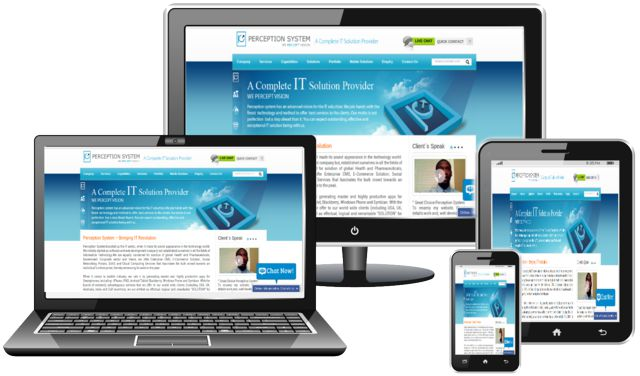
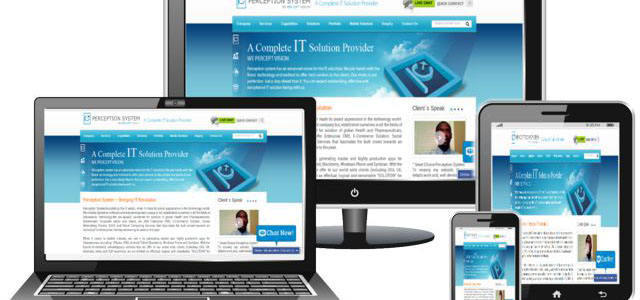
Update 2016-12-10T18:35:49.643Z

diff --git a/css/style.min.css b/css/style.min.css
@@ -1,1 +1,1 @@
-html{font-family:sans-serif;-ms-text-size-adjust:100%;-webkit-text-size-adjust:100%}body{margin:0;font:400 14px/1.4 'Roboto',sans-serif;background-color:#f5f5f5;color:#212121}article,aside,details,figcaption,figure,footer,header,hgroup,main,menu,nav,section,summary{display:block}audio,canvas,progress,video{display:inline-block;vertical-align:baseline}audio:not([controls]){display:none;height:0}[hidden],template{display:none}a{background-color:transparent;transition:all .2s linear}a:active,a:hover{outline:0}abbr[title]{border-bottom:1px dotted}b{font-weight:700}dfn{font-style:italic}h1{font-size:2em;margin:.67em 0}mark{background:#ff0;color:#000}small{font-size:80%}sub,sup{font-size:75%;line-height:0;position:relative;vertical-align:baseline}sup{top:-.5em}sub{bottom:-.25em}img{border:0;max-width:100%;height:auto}svg:not(:root){overflow:hidden}figure{margin:1em 40px}hr{box-sizing:content-box;height:0}pre{overflow:auto}code,kbd,pre,samp{font-family:monospace,monospace;font-size:1em}button,input,optgroup,select,textarea{color:inherit;font:inherit;margin:0}button{overflow:visible}button,select{text-transform:none}button,html input[type=button],input[type=reset],input[type=submit]{-webkit-appearance:button;cursor:pointer}button[disabled],html input[disabled]{cursor:default}button::-moz-focus-inner,input::-moz-focus-inner{border:0;padding:0}input{line-height:normal}input[type=checkbox],input[type=radio]{box-sizing:border-box;padding:0}input[type=number]::-webkit-inner-spin-button,input[type=number]::-webkit-outer-spin-button{height:auto}input[type=search]{-webkit-appearance:textfield;box-sizing:content-box}input[type=search]::-webkit-search-cancel-button,input[type=search]::-webkit-search-decoration{-webkit-appearance:none}fieldset{border:1px solid silver;margin:0 2px;padding:.35em .625em .75em}legend{border:0}textarea{overflow:auto}optgroup{font-weight:700}table{border-collapse:collapse;border-spacing:0}legend,td,th{padding:0}*,:after,:before{box-sizing:border-box}h1,h2,h3,h4{font-weight:400;text-align:center}button,input,select,textarea{outline:none;border:none}button:focus,input:focus,select:focus,textarea:focus{outline:none}ol,ul{padding:0;margin:0;list-style-type:none}strong{font-weight:400}a:hover{color:#212121}.page-header{margin-bottom:20px}.page-header__top{background-color:#2b98d4;margin-bottom:40px}.page-header__top-inner{width:auto;padding:25px 15px}@media (min-width:768px){.page-header__top-inner{width:96.09375%;max-width:994px;margin:0 auto}}@media (min-width:1024px){.page-header__top-inner{width:97.5%;max-width:1170px}}@media (min-width:768px){.page-header__top-inner{padding:0 15px}}@media (min-width:1024px){.page-header__top{margin-bottom:0}}.person{margin-bottom:30px}.person__photo{width:220px;height:220px;margin:0 auto;padding:10px;background-color:#2b98d4}.person__photo,.person__photo img{border-radius:50%}.person__name{margin-top:25px;margin-bottom:0;font-weight:600;font-size:36px}.person__prof{margin:10px 0;font-weight:300;font-size:24px;text-align:center}@media (min-width:1024px){.person{position:relative;padding-top:100px}.person__photo{position:absolute;top:-120px;left:50%;transform:translateX(-50%)}}.menu__list{display:flex;flex-wrap:wrap;justify-content:center}.menu__item{margin-right:10px}.menu__link{position:relative;display:block;padding:0 10px;color:#000;text-decoration:none;text-transform:uppercase;font-weight:500;font-size:24px;background-color:#cec6c6;border-radius:2px}.menu__link--active{border-bottom:2px solid #212121}.menu__link--active:hover{background-color:#fff;border-bottom:2px solid #2b98d4}.contacts svg,.menu__link:hover{background-color:#fff}@media (min-width:768px){.menu__list{min-height:100px;-ms-grid-row-align:center;align-items:center}}@media (min-width:1024px){.menu__list{min-height:150px;justify-content:space-between}}.contacts{width:276px;margin:0 auto;display:flex;flex-direction:column}.contacts svg{width:40px;height:40px;padding:10px;border-bottom:1px solid #2b98d4;border-radius:10px}.contacts__item{line-height:40px}.contacts__item:first-child .contacts__link:hover{color:#212121}.contacts__link{display:inline-block;padding-left:5px;vertical-align:top;text-decoration:none;color:#212121}.contacts__link:hover{color:#2b98d4}@media (min-width:768px){.contacts{width:auto;padding:0 15px;flex-direction:row;flex-wrap:wrap;justify-content:center}}@media (min-width:768px) and (min-width:768px){.contacts{width:96.09375%;max-width:994px;margin:0 auto}}@media (min-width:768px) and (min-width:1024px){.contacts{width:97.5%;max-width:1170px}}@media (min-width:768px){.contacts__item{margin-right:20px}}.progects{display:flex;flex-wrap:wrap;width:auto;padding:0 15px}@media (min-width:768px){.progects{width:96.09375%;max-width:994px;margin:0 auto}}@media (min-width:1024px){.progects{width:97.5%;max-width:1170px}}.progects__item{position:relative;display:flex;flex-wrap:wrap;margin-bottom:40px;padding:40px;background-color:#fff;border-bottom:2px solid #e0e0e0;border-radius:2px}.progects__item:last-child{margin:0 auto 40px}.progects__num{position:absolute;top:10px;left:50%;transform:translateX(-50%);width:22px;height:22px;background-color:#0fa9f9;color:#fff;text-align:center;line-height:22px;vertical-align:middle;border-radius:50%}.progects__img{position:relative;display:block;text-align:center;transition:all .3s ease-in}.progects__img::before{content:'';position:absolute;top:0;right:0;bottom:0;left:0;background-color:transparent;transition:background-color .2s ease-in,border-radius .2s ease-in}.progects__img svg{position:absolute;width:100px;height:100px;left:50%;top:50%;margin-top:-50px;margin-left:-50px;transform:scale(0);transition:all .2s ease-in-out}.progects__img:hover::before{border-radius:5px;background-color:rgba(0,0,0,.5)}.progects__img:hover svg{display:block;transform:scale(1.2)}.progects__info p{margin-top:10px;margin-bottom:20px}.progects__title{font-size:24px;margin:30px 0 20px;font-weight:500;color:#222;text-align:left}.progect__link{display:inline-block;margin-top:auto;text-decoration:none;text-transform:uppercase;background-color:#2196f3;padding:0 16px;font-weight:500;color:#fff;border-radius:2px;font-size:15px;height:32px;line-height:32px;vertical-align:middle}.progect__link:hover{background-color:#1a77c9;color:#fff;box-shadow:1px 1px 5px 1px rgba(0,0,0,.2)}.progect__link:focus{box-shadow:0 4px 6px 2px rgba(0,0,0,.4)}@media (min-width:768px){.progects__item p{font-size:16px}}@media (min-width:1024px){.progects{justify-content:space-between}.progects__item{width:48.5565%}.progects__item p{font-size:17px}}.lift-up{display:none;position:fixed;bottom:20px;right:20px;height:40px;width:40px;font-size:24px;border-radius:50%;padding:6px 0 0;background-color:#2b98d4;border:none;opacity:.6}.lift-up::before{content:'';position:absolute;top:50%;left:50%;transform:translate(-50%,-50%) rotate(-135deg);width:10px;height:10px;border-bottom:2px solid #fff;border-right:2px solid #fff}.lift-up:hover{background-color:#378bb9}.lift-up:active{background-color:#376782}.lift-up:active::before{border-color:#212121}.tags{padding-left:15px;margin-bottom:10px}.tags__item{position:relative;display:inline-block;margin-right:30px;margin-bottom:10px;padding:0 10px 0 12px;color:#fff;background-color:#333;border-top-right-radius:4px;border-bottom-right-radius:4px;line-height:26px;text-decoration:none}.tags__item:after,.tags__item:before{content:"";position:absolute;float:left}.tags__item:before{border-color:transparent #333 transparent transparent;border-style:solid;border-width:13px 13px 13px 0;top:0;left:-13px;width:0;height:0}.tags__item:after{top:11px;left:0;width:4px;height:4px;border-radius:2px;background:#fff;box-shadow:-1px -1px 2px #004977}.about-me{width:auto;padding:0 15px;display:flex;flex-wrap:wrap}@media (min-width:768px){.about-me{width:96.09375%;max-width:994px;margin:0 auto}}@media (min-width:1024px){.about-me{width:97.5%;max-width:1170px}}.about-me__box{position:relative;width:100%;margin-bottom:40px;padding:40px;background-color:#fff;border-bottom:2px solid #e0e0e0;border-radius:2px;font-size:16px}.about-me__box h2{position:relative;font-size:26px;font-weight:600;text-align:left;margin:0 0 30px;padding-right:50px}.about-me__icon{position:absolute;top:40px;right:40px;width:40px;height:40px;background-color:#2b98d4;border-radius:50%}.about-me__icon svg{width:40px;height:40px;padding:10px}.about-me__skill{margin-bottom:20px}.about-me__name-skill{font-size:16px;margin:0 0 10px}.about-me__progress{border:1px solid #2b98d4;background-color:#fff;height:10px;border-radius:10px}.about-me__progress-bar,.about-me__skill-circle{position:relative;background-color:#2b98d4;height:100%}.about-me__skill-circle{position:absolute;right:-20px;top:50%;width:30px;height:30px;border:4px solid #fff;border-radius:50%;transform:translateY(-50%);z-index:1}.about-me__more-skils:first-child{margin-bottom:40px}.about-me__more-skils--use{display:inline-block}.about-me__more-skils--use .about-me__desc{display:inline-block;vertical-align:top;margin-right:20px}.about-me__desc{margin-bottom:15px}.about-me__desc p{margin:0;font-size:16px}.about-me__desc strong{font-size:18px;font-weight:700}@media (min-width:1024px){.about-me{justify-content:space-between}.about-me__box{width:48.5565%}}
+html{font-family:sans-serif;-ms-text-size-adjust:100%;-webkit-text-size-adjust:100%}body{margin:0;font:400 14px/1.4 'Roboto',sans-serif;background-color:#f5f5f5;color:#212121}article,aside,details,figcaption,figure,footer,header,hgroup,main,menu,nav,section,summary{display:block}audio,canvas,progress,video{display:inline-block;vertical-align:baseline}audio:not([controls]){display:none;height:0}[hidden],template{display:none}a{background-color:transparent;transition:all .2s linear}a:active,a:hover{outline:0}abbr[title]{border-bottom:1px dotted}b{font-weight:700}dfn{font-style:italic}h1{font-size:2em;margin:.67em 0}mark{background:#ff0;color:#000}small{font-size:80%}sub,sup{font-size:75%;line-height:0;position:relative;vertical-align:baseline}sup{top:-.5em}sub{bottom:-.25em}img{border:0;max-width:100%;height:auto}svg:not(:root){overflow:hidden}figure{margin:1em 40px}hr{box-sizing:content-box;height:0}pre{overflow:auto}code,kbd,pre,samp{font-family:monospace,monospace;font-size:1em}button,input,optgroup,select,textarea{color:inherit;font:inherit;margin:0}button{overflow:visible}button,select{text-transform:none}button,html input[type=button],input[type=reset],input[type=submit]{-webkit-appearance:button;cursor:pointer}button[disabled],html input[disabled]{cursor:default}button::-moz-focus-inner,input::-moz-focus-inner{border:0;padding:0}input{line-height:normal}input[type=checkbox],input[type=radio]{box-sizing:border-box;padding:0}input[type=number]::-webkit-inner-spin-button,input[type=number]::-webkit-outer-spin-button{height:auto}input[type=search]{-webkit-appearance:textfield;box-sizing:content-box}input[type=search]::-webkit-search-cancel-button,input[type=search]::-webkit-search-decoration{-webkit-appearance:none}fieldset{border:1px solid silver;margin:0 2px;padding:.35em .625em .75em}legend{border:0}textarea{overflow:auto}optgroup{font-weight:700}table{border-collapse:collapse;border-spacing:0}legend,td,th{padding:0}*,:after,:before{box-sizing:border-box}h1,h2,h3,h4{font-weight:400;text-align:center}button,input,select,textarea{outline:none;border:none}button:focus,input:focus,select:focus,textarea:focus{outline:none}ol,ul{padding:0;margin:0;list-style-type:none}strong{font-weight:400}a:hover{color:#212121}.page-header{margin-bottom:20px}.page-header__top{background-color:#2b98d4;margin-bottom:40px}.page-header__top-inner{width:auto;padding:25px 15px}@media (min-width:768px){.page-header__top-inner{width:96.09375%;max-width:994px;margin:0 auto}}@media (min-width:1024px){.page-header__top-inner{width:97.5%;max-width:1170px}}@media (min-width:768px){.page-header__top-inner{padding:0 15px}}@media (min-width:1024px){.page-header__top{margin-bottom:0}}.person{margin-bottom:30px}.person__photo{width:220px;height:220px;margin:0 auto;padding:10px;background-color:#2b98d4}.person__photo,.person__photo img{border-radius:50%}.person__name{margin-top:25px;margin-bottom:0;font-weight:600;font-size:36px}.person__prof{margin:10px 0;font-weight:300;font-size:24px;text-align:center}@media (min-width:1024px){.person{position:relative;padding-top:100px}.person__photo{position:absolute;top:-120px;left:50%;transform:translateX(-50%)}}.menu__list{display:flex;flex-wrap:wrap;justify-content:center}.menu__item{margin-right:10px}.menu__link{position:relative;display:block;padding:0 10px;color:#000;text-decoration:none;text-transform:uppercase;font-weight:500;font-size:24px;background-color:#cec6c6;border-radius:2px}.menu__link--active{border-bottom:2px solid #212121}.menu__link--active:hover{background-color:#fff;border-bottom:2px solid #2b98d4}.contacts svg,.menu__link:hover{background-color:#fff}@media (min-width:768px){.menu__list{min-height:100px;-ms-grid-row-align:center;align-items:center}}@media (min-width:1024px){.menu__list{min-height:150px;justify-content:space-between}}.contacts{width:276px;margin:0 auto;display:flex;flex-direction:column}.contacts svg{width:40px;height:40px;padding:10px;border-bottom:1px solid #2b98d4;border-radius:10px}.contacts__item{line-height:40px}.contacts__item:first-child .contacts__link:hover{color:#212121}.contacts__link{display:inline-block;padding-left:5px;vertical-align:top;text-decoration:none;color:#212121}.contacts__link:hover{color:#2b98d4}@media (min-width:768px){.contacts{width:auto;padding:0 15px;flex-direction:row;flex-wrap:wrap;justify-content:center}}@media (min-width:768px) and (min-width:768px){.contacts{width:96.09375%;max-width:994px;margin:0 auto}}@media (min-width:768px) and (min-width:1024px){.contacts{width:97.5%;max-width:1170px}}@media (min-width:768px){.contacts__item{margin-right:20px}}.progects{display:flex;flex-wrap:wrap;width:auto;padding:0 15px}@media (min-width:768px){.progects{width:96.09375%;max-width:994px;margin:0 auto}}@media (min-width:1024px){.progects{width:97.5%;max-width:1170px}}.progects__item{position:relative;display:flex;flex-direction:column;margin-bottom:40px;padding:40px;background-color:#fff;border-bottom:2px solid #e0e0e0;border-radius:2px}.progects__item:last-child{margin:0 auto 40px}.progects__num{position:absolute;top:10px;left:50%;transform:translateX(-50%);width:22px;height:22px;background-color:#0fa9f9;color:#fff;text-align:center;line-height:22px;vertical-align:middle;border-radius:50%}.progects__img{position:relative;display:block;font-size:0;text-align:center;transition:all .3s ease-in}.progects__img::before{content:'';position:absolute;top:0;right:0;bottom:0;left:0;background-color:transparent;transition:background-color .2s ease-in,border-radius .2s ease-in}.progects__img svg{position:absolute;width:100px;height:100px;left:50%;top:50%;margin-top:-50px;margin-left:-50px;transform:scale(0);transition:all .2s ease-in-out}.progects__img:hover::before{background-color:rgba(0,0,0,.5)}.progects__img:hover svg{display:block;transform:scale(1.2)}.progects__img img{border-radius:5px}.progects__info p{margin-top:10px;margin-bottom:20px}.progects__title{font-size:24px;margin:30px 0 20px;font-weight:500;color:#222;text-align:left}.progects__desc{margin-bottom:20px;color:#444;cursor:pointer;padding:18px;width:100%;transition:.4s;border-radius:5px;text-align:left;font-weight:600;background:#eee url(../img/icon/plus.svg) 95% center no-repeat;background-size:20px 20px}.progects__desc.active{background:#ddd url(../img/icon/minus.svg) 95% center no-repeat;background-size:20px 20px}.progects__text{max-height:0;overflow:hidden;transition:.6s ease-in-out;opacity:0}.progects__text.show{opacity:1;max-height:500px}.progect__link{display:inline-block;margin-top:auto;text-decoration:none;text-transform:uppercase;background-color:#2196f3;padding:0 16px;font-weight:500;color:#fff;border-radius:2px;font-size:15px;height:32px;line-height:32px;vertical-align:middle}.progect__link:hover{background-color:#1a77c9;color:#fff;box-shadow:1px 1px 5px 1px rgba(0,0,0,.2)}.progect__link:focus{box-shadow:0 4px 6px 2px rgba(0,0,0,.4)}@media (min-width:768px){.progects__item p{font-size:16px}.progects__img{min-width:640px;margin:0 auto}}@media (min-width:1024px){.progects{justify-content:space-between}.progects__item{width:48.5565%}.progects__item p{font-size:17px}.progects__img{min-width:auto;margin:0 auto}}.lift-up{display:none;position:fixed;bottom:20px;right:20px;height:40px;width:40px;font-size:24px;border-radius:50%;padding:6px 0 0;background-color:#2b98d4;border:none;opacity:.6}.lift-up::before{content:'';position:absolute;top:50%;left:50%;transform:translate(-50%,-50%) rotate(-135deg);width:10px;height:10px;border-bottom:2px solid #fff;border-right:2px solid #fff}.lift-up:hover{background-color:#378bb9}.lift-up:active{background-color:#376782}.lift-up:active::before{border-color:#212121}.tags{padding-left:15px;margin-bottom:10px}.tags__item{position:relative;display:inline-block;margin-right:30px;margin-bottom:10px;padding:0 10px 0 12px;color:#fff;background-color:#333;border-top-right-radius:4px;border-bottom-right-radius:4px;line-height:26px;text-decoration:none}.tags__item:after,.tags__item:before{content:"";position:absolute;float:left}.tags__item:before{border-color:transparent #333 transparent transparent;border-style:solid;border-width:13px 13px 13px 0;top:0;left:-13px;width:0;height:0}.tags__item:after{top:11px;left:0;width:4px;height:4px;border-radius:2px;background:#fff;box-shadow:-1px -1px 2px #004977}.about-me{width:auto;padding:0 15px;display:flex;flex-wrap:wrap}@media (min-width:768px){.about-me{width:96.09375%;max-width:994px;margin:0 auto}}@media (min-width:1024px){.about-me{width:97.5%;max-width:1170px}}.about-me__box{position:relative;width:100%;margin-bottom:40px;padding:40px;background-color:#fff;border-bottom:2px solid #e0e0e0;border-radius:2px;font-size:16px}.about-me__box h2{position:relative;font-size:26px;font-weight:600;text-align:left;margin:0 0 30px;padding-right:50px}.about-me__icon{position:absolute;top:40px;right:40px;width:40px;height:40px;background-color:#2b98d4;border-radius:50%}.about-me__icon svg{width:40px;height:40px;padding:10px}.about-me__skill{margin-bottom:20px}.about-me__name-skill{font-size:16px;margin:0 0 10px}.about-me__progress{border:1px solid #2b98d4;background-color:#fff;height:10px;border-radius:10px}.about-me__progress-bar,.about-me__skill-circle{position:relative;background-color:#2b98d4;height:100%}.about-me__skill-circle{position:absolute;right:-20px;top:50%;width:30px;height:30px;border:4px solid #fff;border-radius:50%;transform:translateY(-50%);z-index:1}.about-me__more-skils:first-child{margin-bottom:40px}.about-me__more-skils--use{display:inline-block}.about-me__more-skils--use .about-me__desc{display:inline-block;vertical-align:top;margin-right:20px}.about-me__desc{margin-bottom:15px}.about-me__desc p{margin:0;font-size:16px}.about-me__desc strong{font-size:18px;font-weight:700}@media (min-width:1024px){.about-me{justify-content:space-between}.about-me__box{width:48.5565%}}

diff --git a/index.html b/index.html
@@ -63,112 +63,104 @@
   </header>
   <main class="progects">
     <article class="progects__item">
-    <div class="progects__num">1</div>
-      <a href="#" class="progects__img"><img src="img/progect.jpg" alt="проект-2" width="640" height="376">
+      <div class="progects__num">1</div>
+      <a href="https://pashkes.github.io/tour" class="progects__img"><img src="img/progect_img/tour.jpg" alt="tour" width="640" height="300">
         <svg>
           <use xlink:href="img/symbol.svg#icon-eye"></use>
         </svg>
       </a>
       <div class="progects__info">
         <h2 class="progects__title">CD Cover Design</h2>
-        <p>Lorem ipsum dolor sit amet, consectetur adipisicing elit. Saepe quos corrupti perferendis aut ipsam laborum quam ab unde placeat? Reprehenderit, voluptates, animi! Quae quis, magnam ipsam fuga error veniam voluptatem velit ut modi, omnis vel, perferendis deserunt iure facere animi sunt explicabo delectus et itaque numquam ea. Veritatis, similique, veniam.</p>
-        <ul class="tags">
-          <li class="tags__item">tag</li>
-          <li class="tags__item">tag name</li>
-          <li class="tags__item">tag</li>
-          <li class="tags__item">tag name</li>
-          <li class="tags__item">tag</li>
-          <li class="tags__item">tag name</li>
-          <li class="tags__item">tag</li>
-          <li class="tags__item">tag name</li>
-        </ul>
+        <button class="progects__desc">Подробней</button>
+        <div class="progects__text">
+          <p>Lorem ipsum dolor sit amet, consectetur adipisicing elit. Saepe quos corrupti perferendis aut ipsam laborum quam ab unde placeat? Reprehenderit, voluptates, animi! Quae quis, magnam ipsam fuga error veniam voluptatem velit ut modi, omnis vel, perferendis deserunt iure facere animi sunt explicabo delectus et itaque numquam ea. Veritatis, similique, veniam.</p>
+          <ul class="tags">
+            <li class="tags__item">tag</li>
+            <li class="tags__item">tag name</li>
+          </ul>
+          <a href="https://pashkes.github.io/tour" class="progect__link">Wath</a>
+        </div>
       </div>
-      <a href="#" class="progect__link">Wath</a>
     </article>
     <article class="progects__item">
-    <div class="progects__num">2</div>
-      <a href="#" class="progects__img"><img src="img/progect.jpg" alt="проект-2" width="640" height="376">
+      <div class="progects__num">2</div>
+      <a href="https://pashkes.github.io/pink" class="progects__img"><img src="img/progect_img/pink.jpg" alt="pink" width="640" height="300">
         <svg>
           <use xlink:href="img/symbol.svg#icon-eye"></use>
         </svg>
       </a>
       <div class="progects__info">
         <h2 class="progects__title">CD Cover Design</h2>
-        <p>Lorem ipsum dolor sit amet, consectetur adipisicing elit. Saepe quos corrupti perferendis aut ipsam laborum quam ab unde placeat? Reprehenderit, voluptates, animi! Quae quis, magnam ipsam fuga error veniam voluptatem velit ut modi, omnis vel, perferendis deserunt iure facere animi sunt explicabo delectus et itaque numquam ea. Veritatis, similique, veniam.</p>
-        <ul class="tags">
+        <button class="progects__desc">Подробней</button>
+        <div class="progects__text">
+          <p>Lorem ipsum dolor sit amet, consectetur adipisicing elit. Saepe quos corrupti perferendis aut ipsam laborum quam ab unde placeat? Reprehenderit, voluptates, animi! Quae quis, magnam ipsam fuga error veniam voluptatem velit ut modi, omnis vel, perferendis deserunt iure facere animi sunt explicabo delectus et itaque numquam ea. Veritatis, similique, veniam.</p>
+          <ul class="tags">
           <li class="tags__item">tag</li>
           <li class="tags__item">tag name</li>
         </ul>
+        <a href="https://pashkes.github.io/pink" class="progect__link">Wath</a>
+        </div>
       </div>
-      <a href="#" class="progect__link">Wath</a>
     </article>
     <article class="progects__item">
-    <div class="progects__num">3</div>
-      <a href="#" class="progects__img"><img src="img/progect.jpg" alt="проект-2" width="640" height="376">
+      <a href="https://pashkes.github.io/gllacy" class="progects__img"><img src="img/progect_img/gllacy.jpg" alt="gllacy" width="640" height="300">
         <svg>
           <use xlink:href="img/symbol.svg#icon-eye"></use>
         </svg>
       </a>
       <div class="progects__info">
+        <div class="progects__num">3</div>
         <h2 class="progects__title">CD Cover Design</h2>
+        <button class="progects__desc">Подробней</button>
+        <div class="progects__text">
         <p>Lorem ipsum dolor sit amet, consectetur adipisicing elit. Saepe quos corrupti perferendis aut ipsam laborum quam ab unde placeat? Reprehenderit, voluptates, animi! Quae quis, magnam ipsam fuga error veniam voluptatem velit ut modi, omnis vel, perferendis deserunt iure facere animi sunt explicabo delectus et itaque numquam ea. Veritatis, similique, veniam.</p>
         <ul class="tags">
           <li class="tags__item">tag</li>
           <li class="tags__item">tag name</li>
         </ul>
+        <a href="https://pashkes.github.io/gllacy" class="progect__link">Wath</a>
+        </div>
       </div>
-      <a href="#" class="progect__link">Wath</a>
     </article>
     <article class="progects__item">
-      <a href="#" class="progects__img"><img src="img/progect.jpg" alt="проект-2" width="640" height="376">
-        <svg>
-          <use xlink:href="img/symbol.svg#icon-eye"></use>
-        </svg>
-      </a>
-      <div class="progects__info">
       <div class="progects__num">4</div>
-        <h2 class="progects__title">CD Cover Design</h2>
-        <p>Lorem ipsum dolor sit amet, consectetur adipisicing elit. Saepe quos corrupti perferendis aut ipsam laborum quam ab unde placeat? Reprehenderit, voluptates, animi! Quae quis, magnam ipsam fuga error veniam voluptatem velit ut modi, omnis vel, perferendis deserunt iure facere animi sunt explicabo delectus et itaque numquam ea. Veritatis, similique, veniam.</p>
-        <ul class="tags">
-          <li class="tags__item">tag</li>
-          <li class="tags__item">tag name</li>
-        </ul>
-      </div>
-      <a href="#" class="progect__link">Wath</a>
-    </article>
-    <article class="progects__item">
-    <div class="progects__num">5</div>
-      <a href="#" class="progects__img"><img src="img/progect.jpg" alt="проект-2" width="640" height="376">
+      <a href="https://pashkes.github.io/beinside" class="progects__img"><img src="img/progect_img/beinside.jpg" alt="beinside" width="640" height="300">
         <svg>
           <use xlink:href="img/symbol.svg#icon-eye"></use>
         </svg>
       </a>
       <div class="progects__info">
         <h2 class="progects__title">CD Cover Design</h2>
+        <button class="progects__desc">Подробней</button>
+        <div class="progects__text">
         <p>Lorem ipsum dolor sit amet, consectetur adipisicing elit. Saepe quos corrupti perferendis aut ipsam laborum quam ab unde placeat? Reprehenderit, voluptates, animi! Quae quis, magnam ipsam fuga error veniam voluptatem velit ut modi, omnis vel, perferendis deserunt iure facere animi sunt explicabo delectus et itaque numquam ea. Veritatis, similique, veniam.</p>
         <ul class="tags">
           <li class="tags__item">tag</li>
           <li class="tags__item">tag name</li>
         </ul>
+        <a href="https://pashkes.github.io/beinside" class="progect__link">Wath</a>
+        </div>
       </div>
-      <a href="#" class="progect__link">Wath</a>
     </article>
     <article class="progects__item">
-    <div class="progects__num">6</div>
-      <a href="#" class="progects__img"><img src="img/progect.jpg" alt="проект-2" width="640" height="376">
+      <div class="progects__num">5</div>
+      <a href="https://pashkes.github.io/olivia" class="progects__img"><img src="img/progect_img/olivia.jpg" alt="olivia" width="640" height="300">
         <svg>
           <use xlink:href="img/symbol.svg#icon-eye"></use>
         </svg>
       </a>
       <div class="progects__info">
         <h2 class="progects__title">CD Cover Design</h2>
+        <button class="progects__desc">Подробней</button>
+        <div class="progects__text">
         <p>Lorem ipsum dolor sit amet, consectetur adipisicing elit. Saepe quos corrupti perferendis aut ipsam laborum quam ab unde placeat? Reprehenderit, voluptates, animi! Quae quis, magnam ipsam fuga error veniam voluptatem velit ut modi, omnis vel, perferendis deserunt iure facere animi sunt explicabo delectus et itaque numquam ea. Veritatis, similique, veniam.</p>
         <ul class="tags">
           <li class="tags__item">tag</li>
           <li class="tags__item">tag name</li>
         </ul>
+         <a href="https://pashkes.github.io/olivia" class="progect__link">Wath</a>
+         </div>
       </div>
-      <a href="#" class="progect__link">Wath</a>
     </article>
   </main>
   <a href="#" class="lift-up" id="back-to-top"></a>

diff --git a/resume.html b/resume.html
@@ -139,13 +139,13 @@
       <h2>Дополнительное образование</h2>
       <ul class="about-me__more-skils">
       <li class="about-me__desc">
-          <p>Интенсивный онлайн‑курс HTML Academy «Базовый HTML и CSS»</p>
+          <p>Интенсивный онлайн курс HTML Academy «Базовый HTML и CSS»</p>
         </li>
         <li class="about-me__desc">
-          <p>Интенсивный онлайн‑курс HTML Academy «Продвинутый HTML и CSS» </p>
+          <p>Интенсивный онлайн курс HTML Academy «Продвинутый HTML и CSS» </p>
         </li>
         <li class="about-me__desc">
-          <p>Интенсивный онлайн‑курс HTML Academy «Базовый JavaScript» </p>
+          <p>Интенсивный онлайн курс HTML Academy «Базовый JavaScript» </p>
         </li>
       </ul>
     </div>
@@ -156,7 +156,7 @@
       </svg>
     </div>
       <h2>Планы на будущее и немного о себе</h2>
-      <p>В первую очередь конечно же набивать руку верстая проекты различной сложности, при этом каждый день уделять время на изучение JS, понимаю что с одним css html далеко не уедешь, считаю если есть хорощие понимание нативного JS, то будет не сложно изучить любой js-фраймворк.</p>
+      <p>В первую очередь конечно же набивать руку верстая проекты различной сложности, при этом каждый день уделять время на изучение JS, понимаю что с одним css и html далеко не уедешь.</p>
       <p>Так же стараюсь каждый день по немного уделять время на английский, думаю в этой сфере знания английского, хотя бы на уровне свободного чтения очень много принесет пользы.</p>
       <p>Я не из тех людей которые в связи с тяжелой ситуацией в стране в финансом плане решили "войти в it", закончили какие то курсы и думают что их с руками и ногами заберут. Да я тоже заканчивал курсы, но это происходило почти на протяжении года, свободное время старался заполнять закреплением тех навыков которые мне давали. Изначально все это было для меня как хобби, но потом решил что было бы здорово если бы хобби переросло в работу.</p>
     </div>

diff --git a/css/style.css b/css/style.css
@@ -583,7 +583,7 @@ a {
 .progects__item {
   position: relative;
   display: flex;
-  flex-wrap: wrap;
+  flex-direction: column;
   margin-bottom: 40px;
   padding: 40px;
   background-color: white;
@@ -609,6 +609,7 @@ a {
 .progects__img {
   position: relative;
   display: block;
+  font-size: 0;
   text-align: center;
   transition: all 0.3s ease-in; }
   .progects__img::before {
@@ -631,11 +632,12 @@ a {
     transform: scale(0);
     transition: all .2s ease-in-out; }
   .progects__img:hover::before {
-    border-radius: 5px;
     background-color: rgba(0, 0, 0, 0.5); }
   .progects__img:hover svg {
     display: block;
     transform: scale(1.2); }
+  .progects__img img {
+    border-radius: 5px; }
 
 .progects__info p {
   margin-top: 10px;
@@ -647,6 +649,33 @@ a {
   font-weight: 500;
   color: #222;
   text-align: left; }
+
+.progects__desc {
+  margin-bottom: 20px;
+  color: #444;
+  cursor: pointer;
+  padding: 18px;
+  width: 100%;
+  transition: 0.4s;
+  border-radius: 5px;
+  text-align: left;
+  font-weight: 600;
+  background: #eee url(../img/icon/plus.svg) 95% center no-repeat;
+  background-size: 20px 20px; }
+
+.progects__desc.active {
+  background: #ddd url(../img/icon/minus.svg) 95% center no-repeat;
+  background-size: 20px 20px; }
+
+.progects__text {
+  max-height: 0;
+  overflow: hidden;
+  transition: 0.6s ease-in-out;
+  opacity: 0; }
+
+.progects__text.show {
+  opacity: 1;
+  max-height: 500px; }
 
 .progect__link {
   display: inline-block;
@@ -671,7 +700,10 @@ a {
 
 @media (min-width: 768px) {
   .progects__item p {
-    font-size: 16px; } }
+    font-size: 16px; }
+  .progects__img {
+    min-width: 640px;
+    margin: 0 auto; } }
 
 @media (min-width: 1024px) {
   .progects {
@@ -679,7 +711,10 @@ a {
   .progects__item {
     width: 48.5565%; }
     .progects__item p {
-      font-size: 17px; } }
+      font-size: 17px; }
+  .progects__img {
+    min-width: auto;
+    margin: 0 auto; } }
 
 .lift-up {
   display: none;

diff --git a/js/script.js b/js/script.js
@@ -1,0 +1,9 @@
+var acc = document.getElementsByClassName("progects__desc");
+var i;
+
+for (i = 0; i < acc.length; i++) {
+    acc[i].onclick = function(){
+        this.classList.toggle("active");
+        this.nextElementSibling.classList.toggle("show");
+    }
+}
